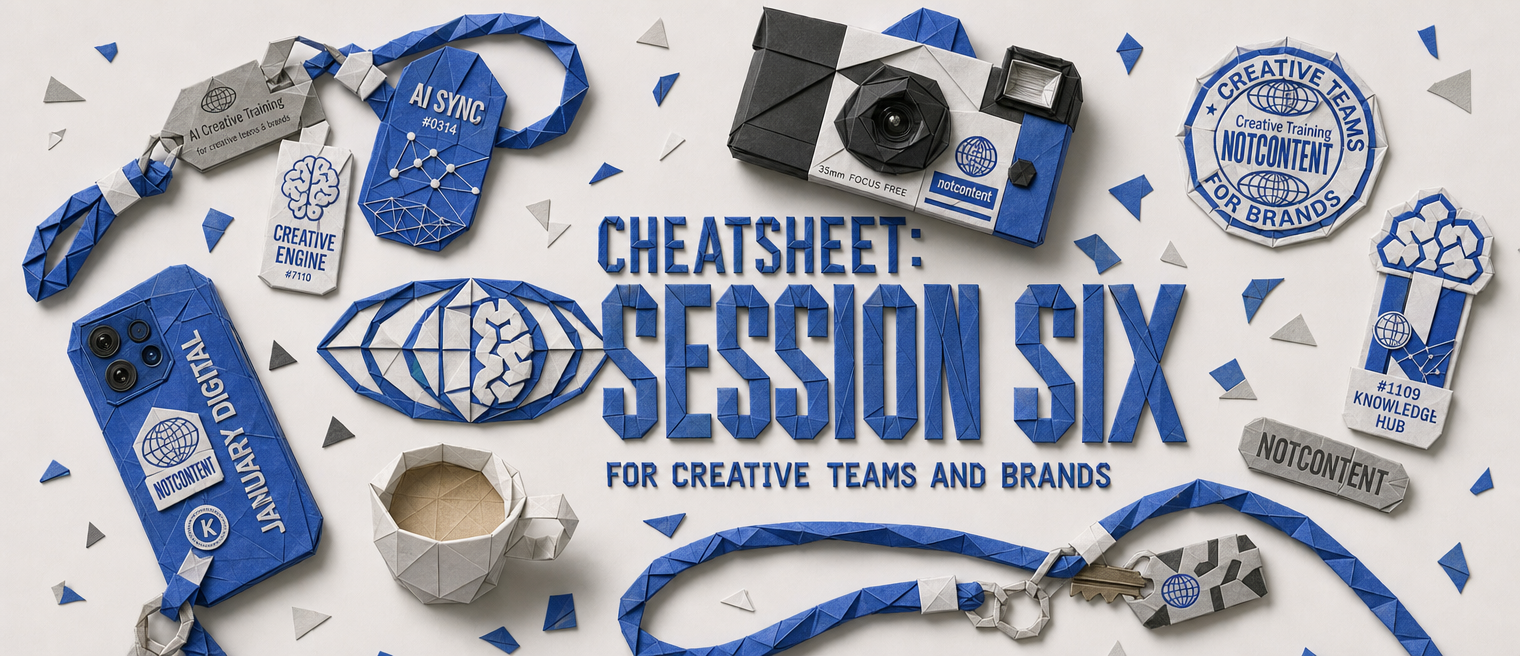
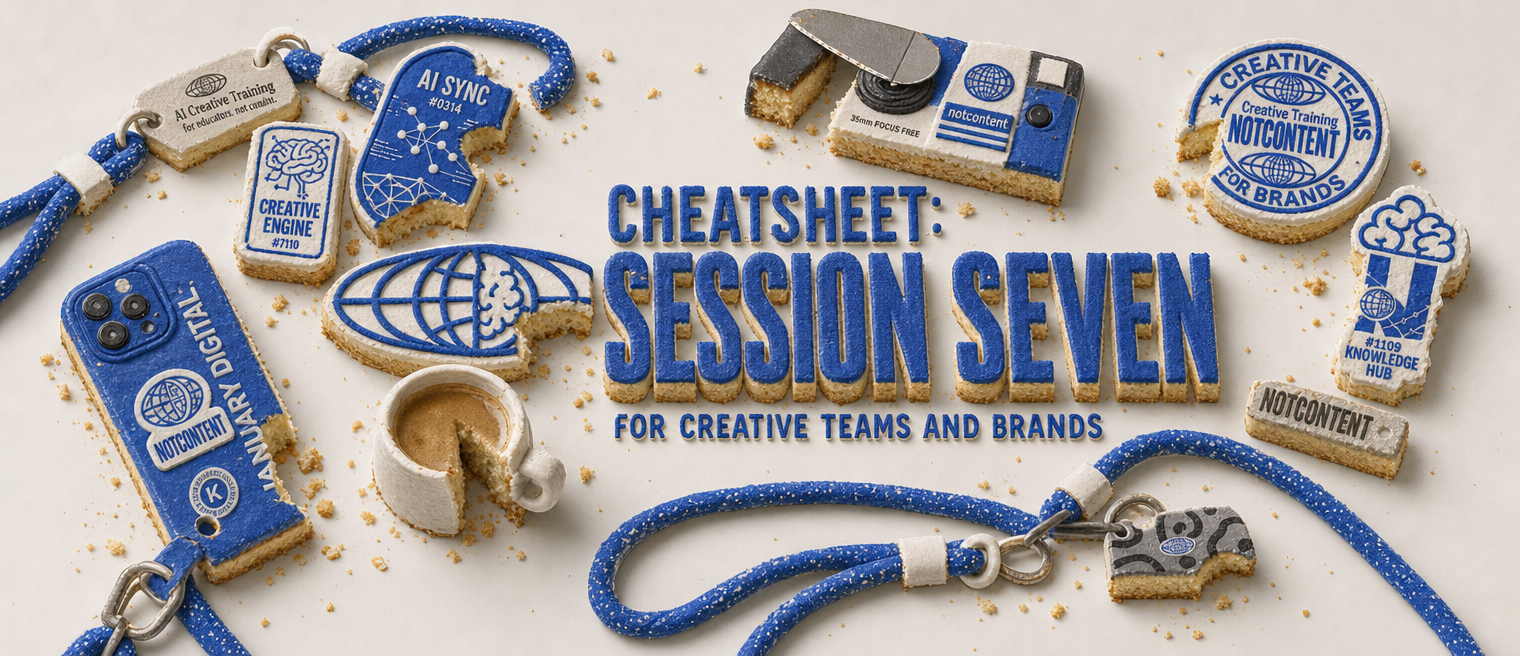
S07: correct header image, remove homework, grey out join

diff --git a/public/january-digital/sessions/07/index.html b/public/january-digital/sessions/07/index.html
@@ -678,7 +678,7 @@
     </div>
   </div>
   <div class="actions">
-    <a class="btn join-link" id="join-btn" href="#" target="_blank" rel="noopener">Join meeting</a>
+    <a class="btn disabled" id="join-btn" href="#" style="pointer-events:none;">Session complete</a>
     <a class="btn ghost" href="/january-digital">View all sessions</a>
   </div>
 </header>
@@ -886,42 +886,10 @@
   <blockquote class="cheat-pull" style="margin-top:28px;">"It's not a no. It's a <span class="accent">different conversation, with a different price.</span>"<span class="attr">— Jeremy Somers</span></blockquote>
 </section>
 
-<!-- ─── 07 · HOMEWORK ─── -->
-<section class="block" id="homework">
-  <div class="head">
-    <div class="eyebrow"><span class="num">07</span> &nbsp;Homework <span class="rule"></span></div>
-    <h2>Put the documents to work.</h2>
-  </div>
-
-  <p class="cheat-note" style="margin-bottom:18px;"><strong>Due before Session 08 — Thursday, July 23.</strong></p>
-
-  <div class="homework">
-    <div class="lbl">1 &middot; Read all four documents</div>
-    <div class="ask">The offer, how a round works, selling it in, the field guide. Read them as a set — they're designed to work together.</div>
-  </div>
-
-  <div class="homework">
-    <div class="lbl">2 &middot; Pick an account</div>
-    <div class="ask">Choose one account you already manage. The one where you know the creative could be better and you already have the data.</div>
-  </div>
-
-  <div class="homework">
-    <div class="lbl">3 &middot; Fill the brackets</div>
-    <div class="ask">Customise the offer one-pager and the round-works sheet for that account. Make them real — brand name, real numbers, real timeframe.</div>
-  </div>
-
-  <div class="homework" style="border-left-color:var(--accent);background:rgba(19,56,190,0.07);">
-    <div class="lbl">The deliverable &middot; due Thursday, 23 July</div>
-    <div class="ask">Your customised offer one-pager and round-works sheet for one real account, dropped in <strong>#project-creative-training</strong>. One line on why you picked that account and what makes it the right first client.</div>
-  </div>
-</section>
-
-<div class="cheat-split"><hr></div>
-
-<!-- ─── 08 · COMING NEXT ─── -->
+<!-- ─── 07 · COMING NEXT ─── -->
 <section class="block">
   <div class="head">
-    <div class="eyebrow"><span class="num">08</span> &nbsp;Coming next <span class="rule"></span></div>
+    <div class="eyebrow"><span class="num">07</span> &nbsp;Coming next <span class="rule"></span></div>
   </div>
 
   <div class="next-up plain">
@@ -934,10 +902,10 @@
   </div>
 </section>
 
-<!-- ─── 09 · RESOURCES ─── -->
+<!-- ─── 08 · RESOURCES ─── -->
 <section class="block">
   <div class="head">
-    <div class="eyebrow"><span class="num">09</span> &nbsp;Resources <span class="rule"></span></div>
+    <div class="eyebrow"><span class="num">08</span> &nbsp;Resources <span class="rule"></span></div>
     <h2>Take it with you.</h2>
   </div>
 